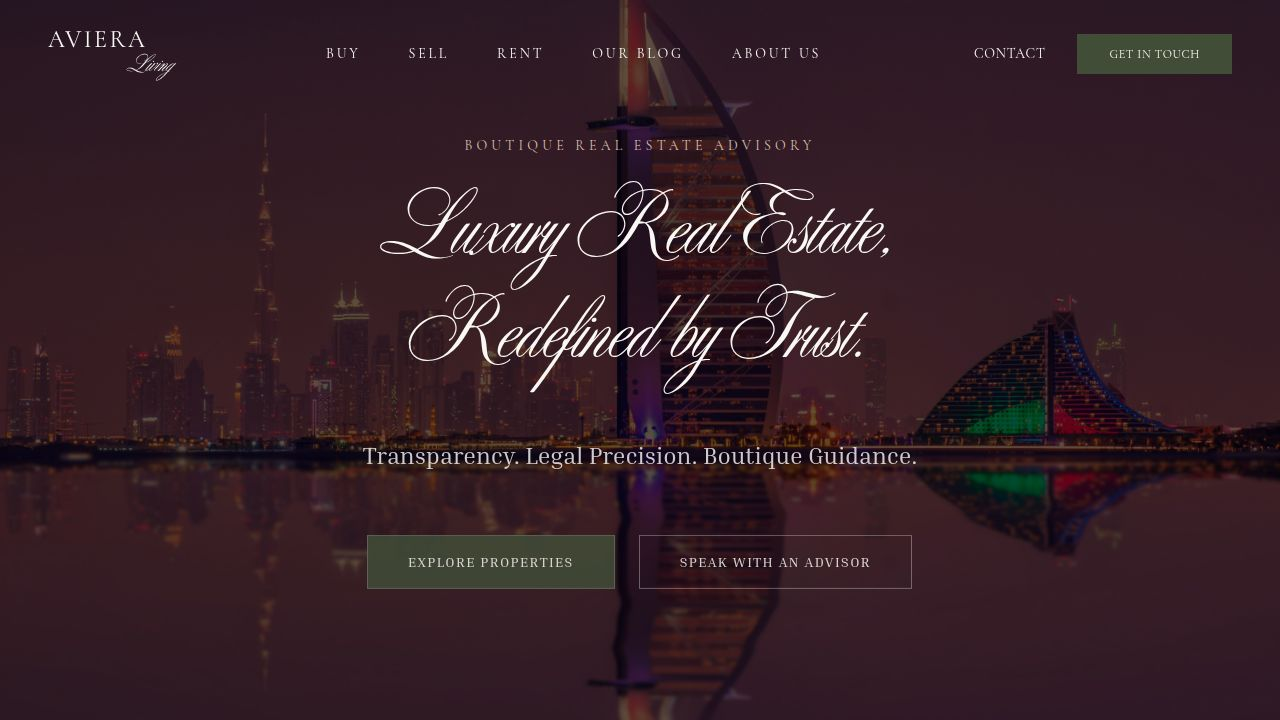
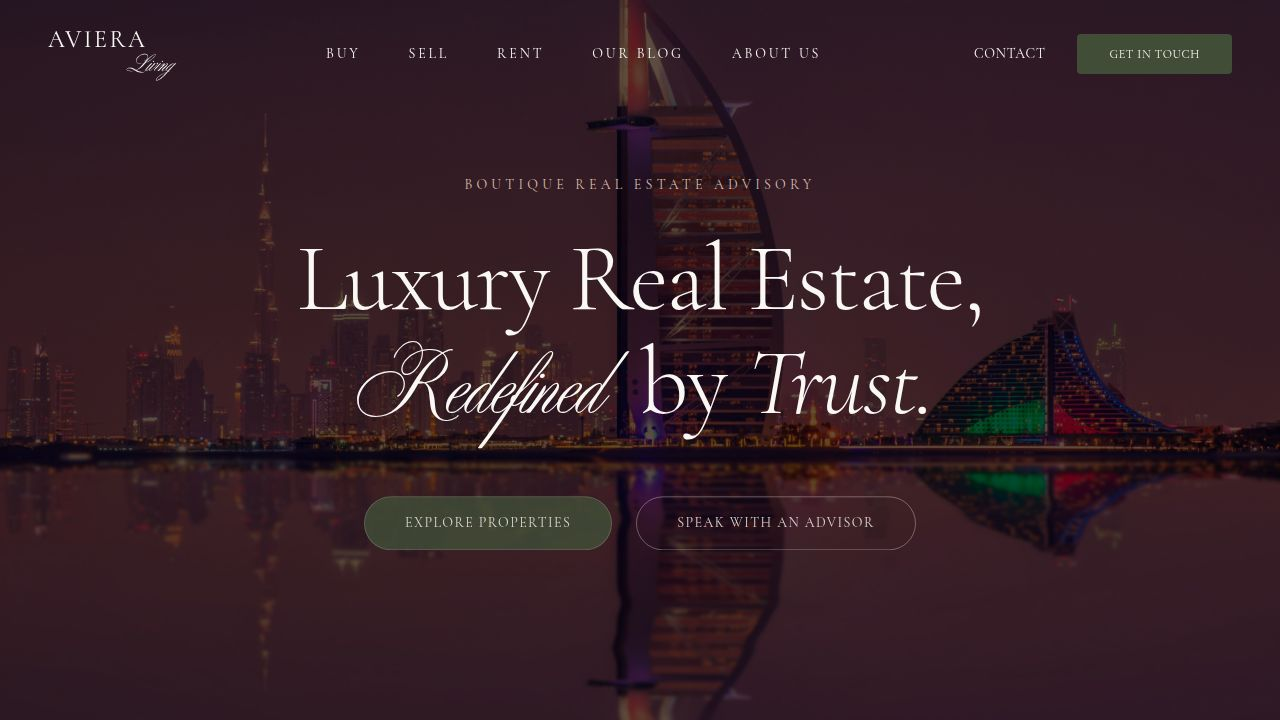
Round all buttons across the website for a more aesthetically pleasing appearance
Adds rounded corners to all button elements within the Hero component and ensures consistent button styling across the application by applying a global CSS rule for rounded buttons.

Replit-Commit-Author: Agent
Replit-Commit-Session-Id: b4a6bb9c-bfc1-4388-b1bc-bc7078e09db5
Replit-Commit-Checkpoint-Type: full_checkpoint
Replit-Commit-Event-Id: c69c4f60-a735-464f-9ac1-0968ecc263f2
Replit-Commit-Screenshot-Url: https://storage.googleapis.com/screenshot-production-us-central1/bcc13536-4d52-4e13-8a55-3a714d6ef5a6/b4a6bb9c-bfc1-4388-b1bc-bc7078e09db5/xEXDzyk
Replit-Helium-Checkpoint-Created: true

diff --git a/client/src/components/Hero.tsx b/client/src/components/Hero.tsx
@@ -22,10 +22,10 @@ export default function Hero() {
           </h1>
           
           <div className="flex flex-col sm:flex-row gap-4 md:gap-6 w-full sm:w-auto animate-in slide-in-from-bottom-8 fade-in duration-1000 delay-500 fill-mode-both px-4 md:px-0">
-            <Link href="/buy" className="text-[#FAF8F5] font-lejour uppercase tracking-widest text-xs md:text-sm px-10 py-5 md:py-4 hover:bg-[#995134] transition-colors border border-[#FAF8F5]/20 text-center bg-[#424d38]">
+            <Link href="/buy" className="text-[#FAF8F5] font-lejour uppercase tracking-widest text-xs md:text-sm px-10 py-5 md:py-4 hover:bg-[#995134] transition-colors border border-[#FAF8F5]/20 text-center bg-[#424d38] rounded-full">
               Explore Properties
             </Link>
-            <Link href="/about/agents" className="bg-transparent text-[#FAF8F5] border border-[#FAF8F5]/40 font-lejour uppercase tracking-widest text-xs md:text-sm px-10 py-5 md:py-4 hover:bg-[#FAF8F5] hover:text-[#3D2716] transition-colors text-center">
+            <Link href="/about/agents" className="bg-transparent text-[#FAF8F5] border border-[#FAF8F5]/40 font-lejour uppercase tracking-widest text-xs md:text-sm px-10 py-5 md:py-4 hover:bg-[#FAF8F5] hover:text-[#3D2716] transition-colors text-center rounded-full">
               Speak With An Advisor
             </Link>
           </div>
@@ -64,7 +64,7 @@ export default function Hero() {
               </select>
             </div>
           </div>
-          <Link href="/buy" className="bg-[#3D2716] text-[#FAF8F5] p-5 md:p-4 hover:bg-[#995134] transition-colors w-full md:w-auto flex justify-center mt-2 md:mt-0">
+          <Link href="/buy" className="bg-[#3D2716] text-[#FAF8F5] p-5 md:p-4 hover:bg-[#995134] transition-colors w-full md:w-auto flex justify-center mt-2 md:mt-0 rounded-full">
             <svg width="24" height="24" viewBox="0 0 24 24" fill="none" xmlns="http://www.w3.org/2000/svg">
               <path d="M11 19C15.4183 19 19 15.4183 19 11C19 6.58172 15.4183 3 11 3C6.58172 3 3 6.58172 3 11C3 15.4183 6.58172 19 11 19Z" stroke="currentColor" strokeWidth="2" strokeLinecap="round" strokeLinejoin="round"/>
               <path d="M21 21L16.65 16.65" stroke="currentColor" strokeWidth="2" strokeLinecap="round" strokeLinejoin="round"/>
